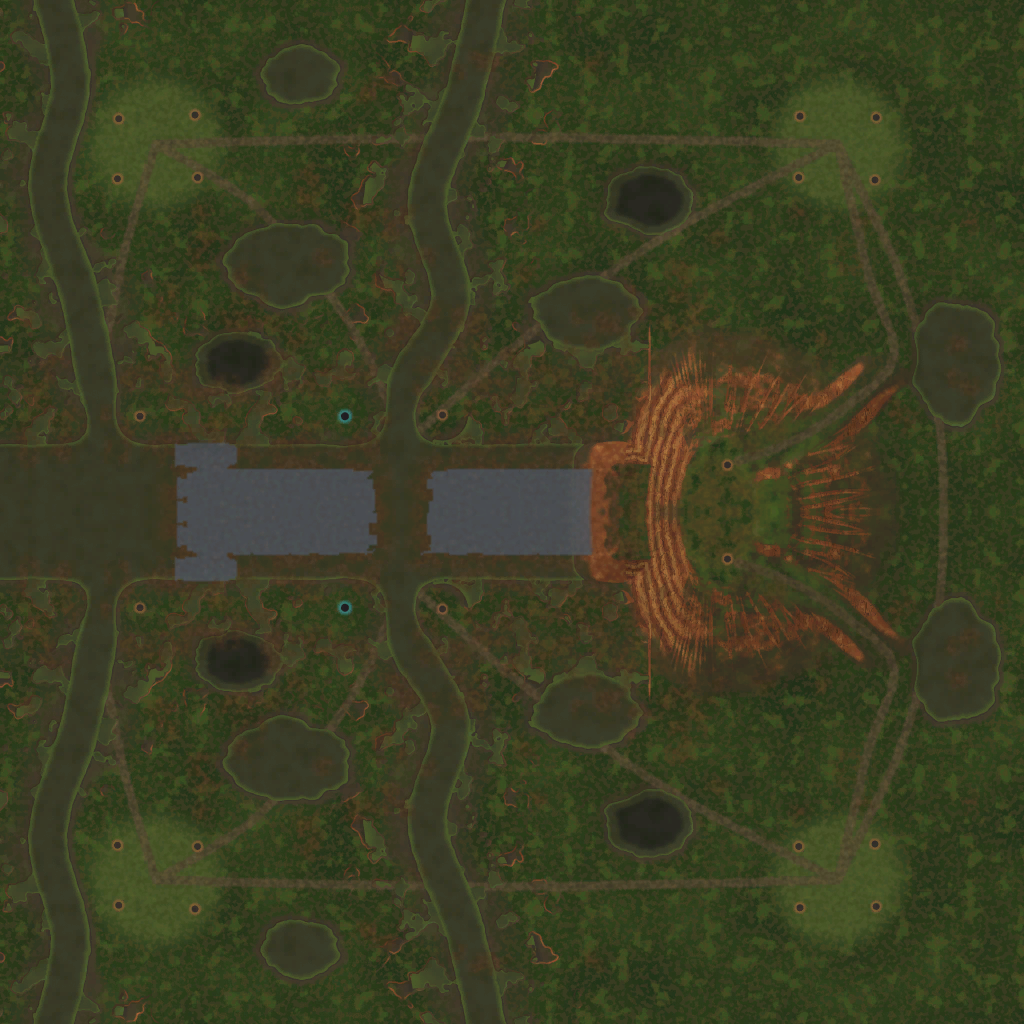
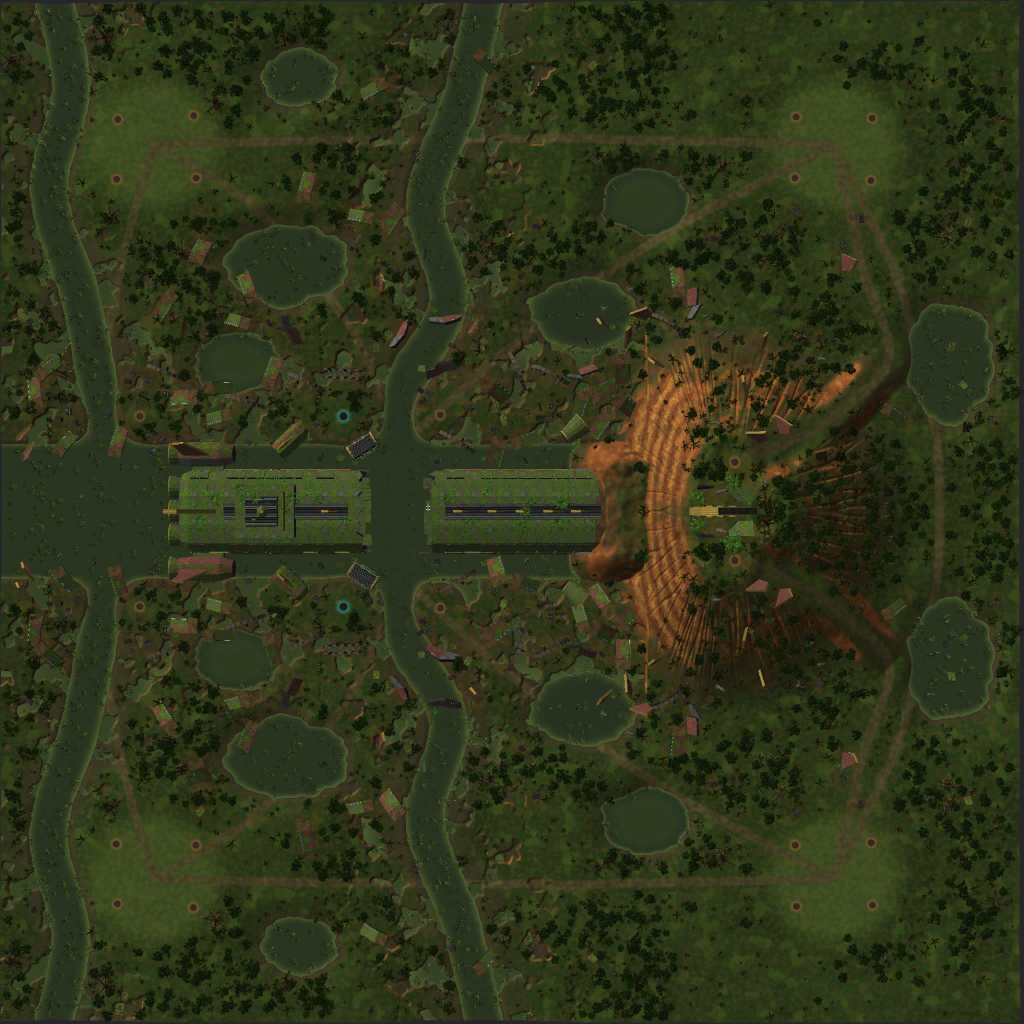
Starfall Marsh: its minimap and lobby picture from a straight-down 3D render, features and heights included

diff --git a/out/step47-starfall-marsh/converter/Program.cs b/out/step47-starfall-marsh/converter/Program.cs
@@ -80,6 +80,39 @@ switch (args[0])
         Console.WriteLine($"{failures} check(s) failed");
         return failures == 0 ? 0 : 1;
     }
+    case "minimap":
+    {
+        // minimap <render3d top-down png> <out png> [size]: the map cut out of a straight-down 3D render (its border
+        // is the renderer's background) and scaled to the minimap's size, for MapTool's import:minimap and the lobby.
+        var img = MapCore.Imaging.PngReader.Read(args[1]).ToRgba();
+        var bg = img.GetPixel(2, 2);
+        bool Map(int x, int y)
+        {
+            var c = img.GetPixel(x, y);
+            return Math.Abs(c.R - bg.R) + Math.Abs(c.G - bg.G) + Math.Abs(c.B - bg.B) > 18;
+        }
+        int left = 0, right = img.Width - 1, top = 0, bottom = img.Height - 1;
+        while (left < right && !Enumerable.Range(img.Height / 4, img.Height / 2).Any(y => Map(left, y))) left++;
+        while (right > left && !Enumerable.Range(img.Height / 4, img.Height / 2).Any(y => Map(right, y))) right--;
+        while (top < bottom && !Enumerable.Range(img.Width / 4, img.Width / 2).Any(x => Map(x, top))) top++;
+        while (bottom > top && !Enumerable.Range(img.Width / 4, img.Width / 2).Any(x => Map(x, bottom))) bottom--;
+        int size = args.Length > 3 ? int.Parse(args[3], CultureInfo.InvariantCulture) : 1024;
+        var cut = img.Crop(MapCore.Imaging.PixelRect.FromEdges(left, top, right + 1, bottom + 1)).Resample(size, size);
+        MapCore.Imaging.PngWriter.WriteRgba(args[2], cut);
+        Console.WriteLine($"map at ({left}, {top}) to ({right}, {bottom}) of {img.Width}x{img.Height}, written {size}x{size}");
+        break;
+    }
+    case "setminimap":
+    {
+        // setminimap <extracted map folder> <png>: the map's SMF minimap made from the picture (the lobby's picture
+        // follows it: MapTool install draws it from the minimap).
+        var smfPath = Directory.GetFiles(Path.Combine(args[1], "maps"), "*.smf").Single();
+        var smf = MapCore.Smf.SmfFile.Load(File.ReadAllBytes(smfPath));
+        MapCore.Smf.Minimap.Rebuild(smf, MapCore.Imaging.PngReader.Read(args[2]).ToRgba());
+        smf.Save(smfPath);
+        Console.WriteLine($"minimap of {Path.GetFileName(smfPath)} set from {Path.GetFileName(args[2])}");
+        break;
+    }
     case "gallery":
     {
         // Every model on flat ground: the ship where it lies, the wreckage in a row south of it.

diff --git a/out/step47-starfall-marsh/converter/README.md b/out/step47-starfall-marsh/converter/README.md
@@ -13,6 +13,7 @@ How `starfall_marsh_1.0.sd7` is made: the terrain, texture, detail maps and sky,
 - `Starfall build <template> <work>`: the map folder, `starfall_marsh_1.0_stage.sd7` and `run.txt` (it runs the checks first and builds anyway, to look).
 - `MapTool edit starfall_marsh_1.0_stage.sd7 starfall_marsh_1.0.sd7 @run.txt`: metal, vents, the ship, wreckage and jungle.
 - `Starfall check <final map, extracted> <run.txt>`: the checks again on the built map's own heights.
+- `Starfall minimap <render.png> <out.png> [size]` and `Starfall setminimap <extracted map> <png>`: the minimap from a straight-down `render3d` with `--models`. The first cuts the map out of the render and scales it; the second puts it into the SMF. Then `MapTool pack`. The lobby picture follows, because `MapTool install` draws it from the minimap.
 - `MapTool install`, `render`, `render3d`, `info`, `metal`: the lobby picture, pictures and reports beside this folder.
 
 ## The files

diff --git a/out/step47-starfall-marsh/CHECKLIST.md b/out/step47-starfall-marsh/CHECKLIST.md
@@ -83,6 +83,16 @@ Also checked:
    - A wreck spot stood in a stream and was moved onto the bank.
    - Vehicles couldn't reach the mound's crest spots, so the track was cut.
 
+## The minimap and lobby picture
+
+The map's minimap (in game, and the lobby's picture, which `MapTool install` draws from it) is the map seen straight down in 3D, heights, light and features included, not the flat texture:
+1. `MapTool render3d starfall_marsh_1.0.sd7 top.png --size 2048x2048 --camera 4096,4096,0,89.9,10400 --models`
+2. `Starfall minimap top.png minimap.png 1024` cuts the map out of the render (the border is the renderer's background) and scales it.
+3. `Starfall setminimap <extracted map> minimap.png` puts it into the SMF.
+4. `MapTool pack` packs the map again.
+
+The render is `minimap_3d_render.png`.
+
 ## Pictures
 
 - **The map:** `map_2d.png`, `3d_overview.png`
